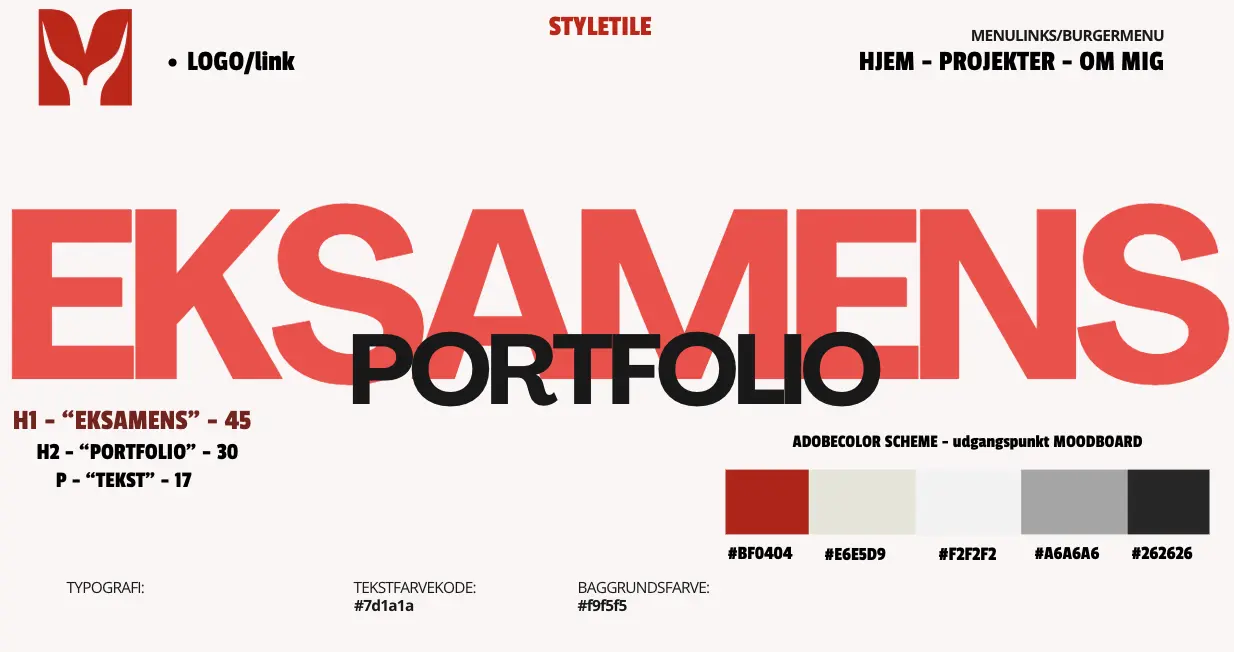
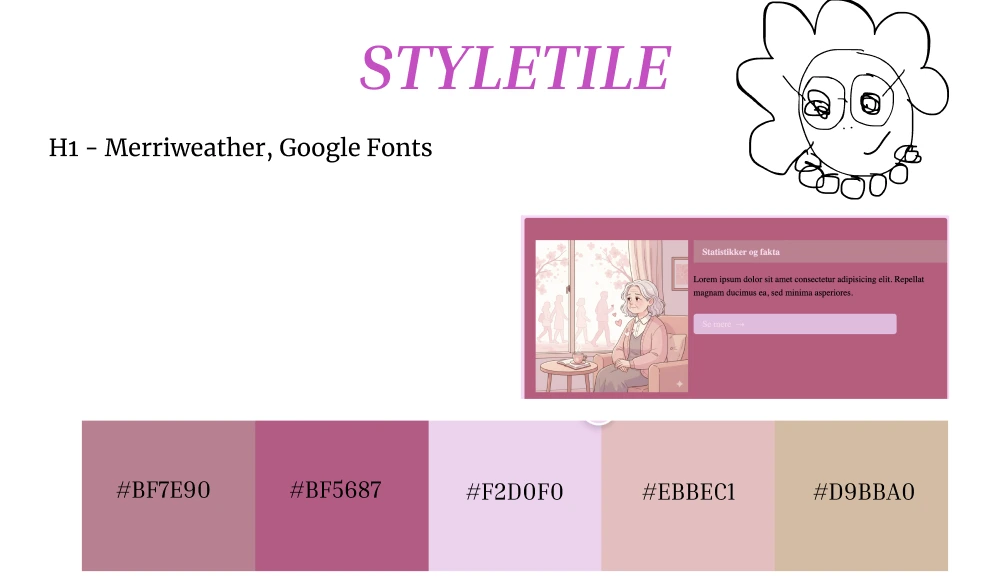
jatakker

diff --git a/projekt2.html b/projekt2.html
@@ -31,103 +31,18 @@
 
 
     </header>
-    <main>
 
-        <!-- Intro -->
-        <section class="tema-section fade-in">
-            <h1>Emergency Website – Projekt</h1>
-            <p>
-                Fokus på research og UX. Under projektet arbejdede vi med brainstorming, idéudvikling og afgrænsning af
-                målgrupper.
-                Jeg arbejdede med målgruppeovervejelser og idéudvikling gennem analoge øvelser og skitser, som senere
-                blev samlet digitalt i Figma.
-            </p>
-        </section>
 
-        <!-- Process og læring -->
-        <section class="tema-section fade-in">
-            <h2>Min process og læring</h2>
-            <p>
-                I processen havde jeg fokus på, at informationen skulle være let at finde og forstå, da det er afgørende
-                på et emergency site.
-                Jeg prioriterede indhold, enkel navigation og tænkte altid på brugerens situation.
-                Jeg arbejdede med desk research, surveys, interviews, observation og kreative øvelser (Crazy 8,
-                stregøvelse).
-            </p>
-            <p>
-                Jeg lærte at designe til en bestemt situation, holde mig til opgaven og formidle klart og hurtigt.
-            </p>
-        </section>
 
-        <!-- Moodboard / Styletile / Øvelser -->
-        <section class="tema-section fade-in">
-            <h2>Procesmateriale</h2>
-            <div class="grid-container">
-                <div class="grid-item">
-                    <img src="images/emergency-moodboard.jpg" alt="Moodboard">
-                    <p>Moodboard: Inspiration til layout og farver</p>
-                </div>
-                <div class="grid-item">
-                    <img src="images/emergency-styletile.jpg" alt="Styletile">
-                    <p>Styletile: Typografi, farver og visuelle elementer</p>
-                </div>
-                <div class="grid-item">
-                    <img src="images/emergency-brainstorm.jpg" alt="Brainstorm">
-                    <p>Brainstorm: Idéudvikling og målgruppeovervejelser</p>
-                </div>
-                <div class="grid-item">
-                    <img src="images/emergency-crazy8.jpg" alt="Crazy 8">
-                    <p>Crazy 8: Hurtige skitser til ideer</p>
-                </div>
-                <div class="grid-item">
-                    <img src="images/emergency-streg.jpg" alt="Streg øvelse">
-                    <p>Stregøvelse: Simpel og hurtig visuel formidling</p>
-                </div>
+    <main class="emergency">
+
+
+        <footer>
+
+
+            <div class="footer-bottom">
+                <p>Adresse: Dieselvej 22, 2450 København SV</p>
+                <p>Email: mask1000@stud.ek.dk | Telefon: +45 26 43 64 45</p>
+                <p>© 2026 Marie Rosenqvist Skov</p>
             </div>
-        </section>
-
-        <!-- Screenshots og link til site -->
-        <section class="tema-section fade-in">
-            <h2>Min løsning</h2>
-            <div class="before-after-container">
-                <div class="before">
-                    <h3>Før</h3>
-                    <img src="images/emergency-old.jpg" alt="Tidligere version">
-                </div>
-                <div class="after">
-                    <h3>Efter</h3>
-                    <img src="images/emergency-new.jpg" alt="Nye emergency site">
-                </div>
-            </div>
-            <p>
-                Se live site:
-                <a href="http://127.0.0.1:5502/instruction.html" target="_blank" class="doc-link">Emergency website</a>
-            </p>
-        </section>
-
-        <!-- Konklusion -->
-        <section class="tema-section fade-in">
-            <h2>Refleksion</h2>
-            <p>
-                Projektet har lært mig vigtigheden af at prioritere indhold, simplificere og tænke brugerens behov
-                først,
-                især når information skal formidles hurtigt. Jeg har også styrket mine færdigheder i Figma, UX og
-                procesarbejde.
-            </p>
-        </section>
-
-        <script src="script-emergency.js"></script>
-
-
-
-    </main>
-
-    <footer>
-
-
-        <div class="footer-bottom">
-            <p>Adresse: Dieselvej 22, 2450 København SV</p>
-            <p>Email: mask1000@stud.ek.dk | Telefon: +45 26 43 64 45</p>
-            <p>© 2026 Marie Rosenqvist Skov</p>
-        </div>
-    </footer>
+        </footer>

diff --git a/projekt5.html b/projekt5.html
@@ -53,7 +53,7 @@
         <!-- Styletile -->
         <section class="tema-section fade-in">
             <h2>Styletile</h2>
-            <img src="imgs/styletile.webp" alt="Styletile til portfolio">
+            <img src="imgs/styletileportfolio.webp" alt="Styletile til portfolio">
             <p>
                 Styletilen viser de designvalg, jeg har truffet i forhold til farver, typografi og visuelle elementer på
                 websitet.

diff --git a/style.css b/style.css
@@ -613,6 +613,9 @@ body {
   }
 }
 
+/**********Emergency*******/
+
+
 
 
 
